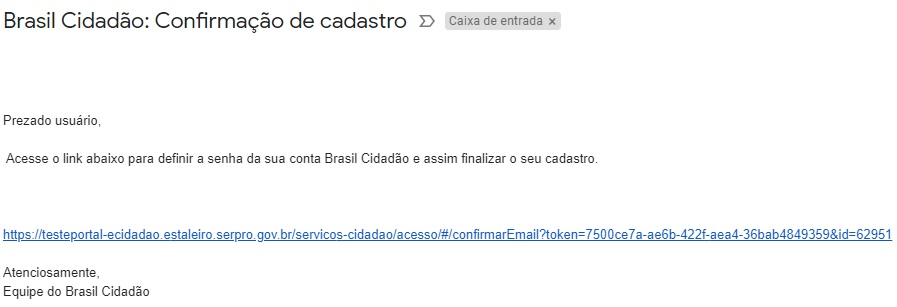
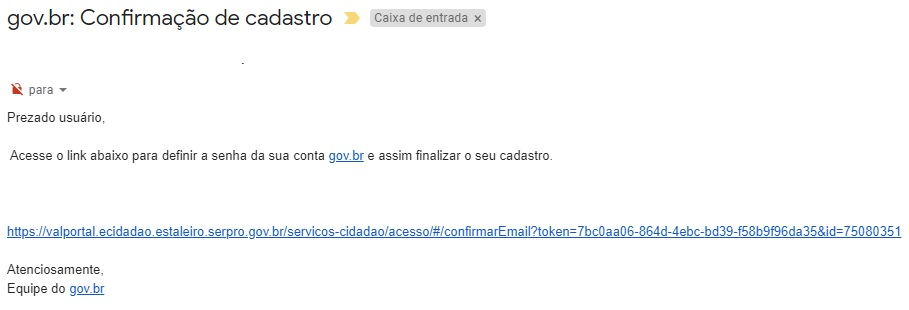
Atualizacao conteudo

diff --git a/_perguntasdafaq/contaacesso.rst b/_perguntasdafaq/contaacesso.rst
@@ -3,43 +3,37 @@
 
 Para criar uma conta de acesso, clique no botão `Fazer Cadastro`_ |site externo| e siga os passos:
 
-.. figure:: _images/telainicialcombotaofazercadastrogovbr.jpg
+.. figure:: _images/telainicialcombotaofazercadastro.jpg
    :align: center
    :alt: Tela de acesso inicial do Login Único com destaque do botão Fazer Cadastro em destaque
 
 1. Tenha em mãos um documento de identidade, número do CPF, nome completo, e-mail e número do celular e clique no botão continuar
 
-.. figure:: _images/telafazercadastrocombotaocontinuargovbr.jpg
+.. figure:: _images/telafazercadastrocombotaocontinuar.jpg
    :align: center
    :alt: Tela de inicio do cadastro com os campos CPF, nome, e-mail, CAPTCHA e botão CONTINUAR destacado. Na mesma tela possui referência para criação por meio do Certificado Digital e Certificado Digital NEOID
 
 2. Responda as perguntas relacionadas às suas informações pessoais.
 
-.. figure:: _images/perguntascadastroinicialgovbr.jpg
+.. figure:: _images/perguntascadastroinicial.jpg
    :align: center
    :alt: Tela com as perguntas serem respondidas pelo cidadão para confirmação do cadastro. As perguntas são Qual o Ano de Nascimento?, Qual o primeiro nome da Mãe?, Qual seu mês de nascimento?
 
-3. Após a verificação das respostas, a Plataforma enviará uma mensagem ou para email ou para número do celular. A opção SMS só estará ativa se o número de celular tiver sido informado, conforme passo 1.
+3. Após a verificação das respostas, a Plataforma enviará email para ativação da conta.
 
-.. figure:: _images/envioemailcadastrarsenhagovbr.jpg
+.. figure:: _images/envioemailcadastrarsenha.jpg
    :align: center
    :alt: Tela com confirmação do e-mail a ser encaminhada. Os elementos presentes são e-mail com partes misturadas (evitar identificação) e os botões CONFIRMAR e CANCELAR
 
-4. Caso tenha escolhido a opção do email, abra o seu e-mail e clique no link enviado (confira na caixa de spam caso não esteja na caixa de entrada)
+4. Abra o seu e-mail e clique no link enviado (confira na caixa de spam caso não esteja na caixa de entrada)
 
 .. figure:: _images/emailcomlinkparasenha.jpg
    :align: center
    :alt: Texto do email encaminhado ao cidadão para realizar o cadastramento da conta. O texto do email é "Assunto com Brasil Cidadão: confirmação do cadastro e texto para indicar a forma de cadastramento com link" 
 
-5. Caso tenha escolhido a opção do SMS, conferir a mensagem recebida no celular informado e digitar o código no campo **Informe o código de validação** e clique no botão **Validar Cadastro**
+5. Definir uma senha e finalizar o cadastro e ativar sua conta.
 
-.. figure:: _images/teladigitarsmsparaconfirmacao.jpg
-   :align: center
-   :alt: Tela de confirmação do código SMS com os botões Cancelar, Validar Cadastro e Não recebi o SMS 
-   
-6. Definir uma senha e finalizar o cadastro e ativar sua conta.
-
-.. figure:: _images/telacadastramentosenhagovbr.jpg
+.. figure:: _images/telacadastramentosenha.jpg
    :align: center
    :alt: Tela para ativação do cadastro, tendo um descritivo para orientar como cadastrar a senha e os campos CPF, SENHA, REPETIR SENHA e os botões CRIAR SENHA ou CANCELAR. 
 
@@ -57,7 +51,17 @@ Caso você tenha um certificado digital pessoa física compatível com a ICP-Bra
 - quero uma conta/login/cadastro
 - fazer cadastro
 - cadastro
+- Mais quando tento acessar aparece senha e usuario invalido
+- Não estou consguindo acessar com meu login e senha
+- não tenho  senha  brasil cidadao/Login Único/govbr
+- Cadrastar dados pessoais
+- Preciso de ajuda com o cadastro
+- CPF aparece invalido na plataforma
+- CPF está invalido segundo o site 
+- cpf esta dando invalido, mesmo após eu utiliza-lo no brasil cidadao/Login Único/govbr e estar correto
+- peço pra trocar a senha ai ele diz acrescentar cpf. Quando aperto em criar senha ai ele diz cpf invalido
+- 
 
-.. _`Fazer Cadastro`: https://acesso.gov.br/servicos-cidadao/acesso/#/primeiro-acesso
+.. _`Fazer Cadastro`: https://portal.brasilcidadao.gov.br/servicos-cidadao/acesso/#/primeiro-acesso
 .. |site externo| image:: _images/site-ext.gif
             

diff --git a/_perguntasdafaq/naotenhoacessoaoemailcadastradonologin.rst b/_perguntasdafaq/naotenhoacessoaoemailcadastradonologin.rst
@@ -1,0 +1,40 @@
+Não tenho mais acesso ao meu email pessoal
+==========================================
+
+As informações utilizadas para realizar o cadastro do Login Único pertencem ao cidadão. Ministério da Economia não tem autonomia para alteração sem o consentimento do cidadão, conforme `LEI Nº 13.709, DE 14 DE AGOSTO DE 2018 (Dispõe sobre a proteção de dados pessoais)`_ |site externo|
+
+Para realizar o procedimento de alteração, há necessidade da Administração Pública certificar a autenticidade do cidadão. Isso ocorrerá por meio do email a ser encaminhado para cidadaniadigital@planejamento.gov.br com as informações:
+
+1. Preeencher no campo assunto: **[Login Único] Alteração do e-mail por solicitação do cidadão**
+2. Preencher o conteúdo do e-mail com as informações:
+
+- **Nome do Cidadão**;
+- **CPF do Cidadão**;
+- **Data de Nascimento**;
+- **E-mail para alteração**;
+- **Anexar arquivo com o Documento de Identificação e autofotografia(selfie) para checar identificação**;
+- **Seguinte texto**: Eu, *nome do cidadao*, portador do CPF, *CPF do cidadão* , autorizo o Ministério da Economia a alterar meus dados cadastrais da plataforma de autenticação Login Único(govbr). *Cidade residência do cidadão* , *data do preenchimento da autorização*.
+ 
+Logo que o Ministério da Economia receber o e-mail, será realizado a análise de segurança e confirmação será encaminhada para email solicitado para alteração.
+
+**Possíveis Palavras/Termos (Utilizado para busca no chatbot)**
+
+- Não tenho acesso ao email
+- email invalido
+- não tem autonomia
+- Alteração do e-mail
+- solicitação do cidadão
+- Não consigo acessar conta
+- Este email que cadastrei não consigo acessar mais
+- Esqueci meu email da conta brasil cidadao/Login Único/govbr
+- Preciso trocar o email pois devo ter colocado errado
+- Recadastrar email no site
+- Senha do Brasil Cidadão/Login Único/govbr eu esqueci e nao tenho mais o email que eu cadrastrei
+- Esqueci a senha e não utilizo mais o email de cadastro
+- Meu cadastro esta errado
+
+.. |site externo| image:: _images/site-ext.gif
+.. _`LEI Nº 13.709, DE 14 DE AGOSTO DE 2018 (Dispõe sobre a proteção de dados pessoais)` : http://www.planalto.gov.br/ccivil_03/_Ato2015-2018/2018/Lei/L13709.htm
+
+
+            

diff --git a/_perguntasdafaq/naorecebioemaildeconfirmacao.rst b/_perguntasdafaq/naorecebioemaildeconfirmacao.rst
@@ -1,49 +1,35 @@
-Não recebi e-mail ou SMS de confirmação
+Não recebi e-mail de confirmação
 ================================
 
 Pode ter ocorrido:
 
-- SMS ou E-mail inválido (erro de digitação) ou; 
+- E-mail inválido (erro de digitação) ou; 
 - E-mail de confirmação está na sua caixa de spam (Lixo Eletrônico) ou;
 - E-mail de confirmação ainda não chegou na sua caixa de e-mail ou;
-- SMS de confirmação depende da funcionalidade de mensagem está disponível ao celular pela operadora ou;
-- SMS de confirnação depende de créditos disponíveis no plano de celular para recebimento de mensagens.   
 
 Dependendo do serviço de e-mail ,pode demorar até 24 horas para chegar na caixa de e-mail.
 
-Dependendo do serviço de SMS, pode não receber a mensagem de imediato. Aguardar alguns minutos para verificar novo envio.
-
-Caso não tenha recebido o e-mail ou SMS, encaminhar e-mail para cidadaniadigital@planejamento.gov.br e informe o problema com detalhes. 
+Caso não tenha recebido o e-mail, encaminhar e-mail para cidadaniadigital@planejamento.gov.br e informe o problema com detalhes. 
 
 **Possíveis Palavras/Termos (Utilizado para busca no chatbot)**
 
 - e-mail de confirmação
-- SMS de confirmação
 - erro de digitação
 - caixa de spam
 - e-mail errado
 - lixo eletrônico
 - não chegou confirmação
 - cadastrei-me e não recebi o e-mail de confirmação
-- cadastrei-me e não recebi o SMS de confirmação
 - não recebi o e-mail
-- não recebi o SMS
 - não recebi a confirmação
 - não veio e-mail de confirmação
-- não veio SMS de confirmação
 - para onde vai o e-mail de confirmação
 - para onde foi e-mail de confirmação
-- para onde vai o SMS de confirmação
-- para onde foi SMS de confirmação
 - onde está o e-mail de confirmação
 - cade e-mail de confirmação
-- onde está o SMS de confirmação
-- cade SMS de confirmação
 - cade a confirmação
 - Não chegou nenhum e-mail
 - Não recebo o e-mail
-- Não chegou nenhum SMS
-- Não recebo o SMS  
 
 .. |site externo| image:: _images/site-ext.gif
             

diff --git a/_perguntasdafaq/problemanacontadeacessocomertificadodogital.rst b/_perguntasdafaq/problemanacontadeacessocomertificadodogital.rst
@@ -1,0 +1,35 @@
+Problema conta de acesso com certificado digital?
+=================================================
+
+Favor realizar os procedimentos:
+
+1. Fechar o navegador
+2. Abrir o navegador
+3. Limpar os Dados de Navegação. (Verificar o procedimento para o navegador em uso)
+4. Instalar a cadeia de certificados válidos da ICP-Brasil:
+
+- `Certificado AC Brasil`_ |site externo|. **(Instalar desde versão 2 até última)**
+- `Certificado AC da Secretaria da Receita Federal do Brasil`_ |site externo|. **(Instalar desde versão 2 até última)**
+- `Certificado AC do SERPRO`_ |site externo|. **(Instalar desde versão 2 até última)**
+
+5. Realizar o login.
+
+Caso o problema continue, encaminhe o email para cidadaniadigital@planejamento.gov.br, e informe o problema com detalhes.
+
+**Possíveis Palavras/Termos (Utilizado para busca no chatbot)**
+
+- SAC
+- atendimento
+- cliente
+- problema com acesso
+- problema na minha conta
+- ajuda
+- cadastro com certificado digital não está entrando
+- Certificado nao está acessando o Brasil Cidadão/Login Único/govbr, o que faço?
+- Não consigo acessar o Brasil Cidadão/Login Único/govbr com certificado digital
+- Não encontra o certificado digital
+
+.. |site externo| image:: _images/site-ext.gif
+.. _`Certificado AC Brasil` : https://www.iti.gov.br/repositorio/repositorio-ac-raiz  
+.. _`Certificado AC da Secretaria da Receita Federal do Brasil` : https://www.iti.gov.br/repositorio/cadeias-da-icp-brasil/86-cadeias-da-icp-brasil/251-ac-receita-federal-do-brasil
+.. _`Certificado AC do SERPRO`: https://www.iti.gov.br/repositorio/86-cadeias-da-icp-brasil/401-ac-serpro

diff --git a/_perguntasdafaq/esqueciminhasenha.rst b/_perguntasdafaq/esqueciminhasenha.rst
@@ -3,7 +3,7 @@
 
 Você pode recuperar senha acessando `Esqueceu sua senha?`_ |site externo|:
 
-.. figure:: _images/telaincialcomesqueceusenhagovbr.jpg
+.. figure:: _images/telaincialcomesqueceusenha.jpg
    :align: center
    :alt: Tela inicial do Login Único com destaque no link Esqueceu sua senha?. O link está localizado abaixo do campo SENHA presente na tela.
 
@@ -12,8 +12,15 @@ Tenha em mãos o número do seu CPF.
 
 **Possíveis Palavras/Termos (Utilizado para busca no chatbot)**
 
-- recuperar minha senha, esqueci minha senha, senha, recuperação de senha, conseguir nova senha, nova senha
-- eu perdi minha senha, quero recuperar
+- recuperar minha senha
+- esqueci minha senha
+- recuperação de senha
+- conseguir nova senha
+- nova senha
+- eu perdi minha senha
+- quero recuperar minha senha
+- cadastrar nova senha
+- não lembro a senha atual por isso preciso fazer outra
 - perdi minha senha, como pego uma nova senha
 - quero uma senha nova
 - preciso de outra senha
@@ -23,8 +30,11 @@ Tenha em mãos o número do seu CPF.
 - refazer senha
 - visualizar minha senha
 - rever minha senha
-- Informa que o usuário já possui cadastro no sistema 
+- Informa que o usuário já possui cadastro no sistema
+- Onde devo digitar para redefinir a senha?
+- Recuperação login
+- Não consigo acessar meu cadastro  
 
-.. _`Esqueceu sua senha?` : https://acesso.gov.br/servicos-cidadao/acesso/#/recuperarSenha
+.. _`Esqueceu sua senha?` : https://portal.brasilcidadao.gov.br/servicos-cidadao/acesso/#/recuperarSenha
 .. |site externo| image:: _images/site-ext.gif
             

diff --git a/_perguntasdafaq/naoconsigocadastrarsenha.rst b/_perguntasdafaq/naoconsigocadastrarsenha.rst
@@ -15,10 +15,27 @@ Evite senhas comuns como:
 - 12345678
 - nomes
 
+Para o cadastramento da senha, o Login Único solicita o preenchimento da senha no campo **Nova Senha** e repeti-lá o campo **Repita a senha** e depois clicar no botão **CRIAR SENHA**.
+
+.. figure:: _images/telacadastramentosenha.jpg
+   :align: center
+   :alt: Tela com apresentação dos campos CPF, escolher senha, repetir senha escolhida para permitir o cadastramento da senha
+
+Verificar se a senha digitada está mesma em ambos os campos, porque o Login Único checa antes de realizar o cadastramento.
+
 Caso persista o problema, encaminhe e-mail para cidadaniadigital@planejamento.gov.br e detalhe o problema.
 
 **Possíveis Palavras/Termos (Utilizado para busca no chatbot)** 
 
+- Não consigo cadastrar senha
+- senha não está igual
+- Aparece que a senha não está igual
+- A senha não confirma mesmo estando igual
+- Não aceita a senha
+- Senha do Login Único/Brasil Cidadão/govbr não é aceita
+- Problema com senha para entrar na conta do Brasil Cidadao/Login Único/govbr
+- Não estou conseguindo fazer senha
+- repetir senha e não aceitou
 - Não consigo cadastrar senha
 
 .. |site externo| image:: _images/site-ext.gif

diff --git a/_perguntasdafaq/mensagemousuariojapossuicadastronosistema.rst b/_perguntasdafaq/mensagemousuariojapossuicadastronosistema.rst
@@ -7,14 +7,14 @@ Caso não lembre da senha, favor realizar os passos:
 
 - Recuperar senha acessando `Esqueceu sua senha?`_ |site externo|:
 
-.. figure:: _images/telaincialcomesqueceusenhagovbr.jpg
+.. figure:: _images/telaincialcomesqueceusenha.jpg
    :align: center
    :alt: Tela inicial do Login Único com destaque no link Esqueceu sua senha?. O link está localizado abaixo do campo SENHA presente na tela.
    
 - Informe seu CPF e clique em continuar.
 
 
-.. figure:: _images/telaesquecisenhacomcaptchagovbr.jpg
+.. figure:: _images/telaesquecisenhacomcaptcha.jpg
    :align: center
    :alt: Tela ativa para solicitar recuperação da senha com campo Informe o CPF, CAPTCHA e os botões CONTINUAR e CANCELAR 
 
@@ -24,6 +24,6 @@ Ao fazer isso, a senha do CPF irá para o e-mail cadastrado na conta do Login Ú
 
 - Mensagem: O usuário já possui cadastro no Sistema; 
  
-.. _`Esqueceu sua senha?`: https://acesso.gov.br/servicos-cidadao/acesso/#/recuperarSenha
+.. _`Esqueceu sua senha?`: https://portal.brasilcidadao.gov.br/servicos-cidadao/acesso/#/recuperarSenha
 .. |site externo| image:: _images/site-ext.gif
             

diff --git a/_perguntasdafaq/epossivelcriarcontadeacessocomcertificadodigital.rst b/_perguntasdafaq/epossivelcriarcontadeacessocomcertificadodigital.rst
@@ -3,7 +3,7 @@
 
 Sim. Acesse `Fazer Cadastro`_ |site externo| e clique nas opçoes “Cadastro com Certificado Digital” ou "Cadastro com Certificado Digital com NEOID". 
 
-.. figure:: _images/telacadastrocomcertificadodigitalgovbr.jpg
+.. figure:: _images/telacadastrocomcertificadodigital.jpg
    :align: center
    :alt: Tela de realizar cadastro com destaque para as funcionalidades Cadastro com Certificado Digital e Cadastro com Certificado Digital NEOID
 
@@ -25,7 +25,7 @@ O Certificado digital aceito pelo Brasil Cidadão é dos tipos A1 e A3.
 - não consigo entrar com o certificado digital
 - Estou tentando entrar com certificado digital, porém não tenho êxito  
 
-.. _`Fazer Cadastro` : https://acesso.gov.br/servicos-cidadao/acesso/#/primeiro-acesso
+.. _`Fazer Cadastro` : https://portal.brasilcidadao.gov.br/servicos-cidadao/acesso/#/primeiro-acesso
 .. _`drive do certificado digital` : https://certificados.serpro.gov.br/arserpro/pages/information/drivers_token_download.jsf?
 .. |site externo| image:: _images/site-ext.gif
             

diff --git a/index.rst b/index.rst
@@ -22,13 +22,17 @@ FAQ Login Único
    _perguntasdafaq/obtermaisconfiabilidadenacontadeacesso
    _perguntasdafaq/epossivelcriarcontadeacessocomcertificadodigital
    _perguntasdafaq/problemanacontadeacesso
+   _perguntasdafaq/problemanacontadeacessocomertificadodogital
    _perguntasdafaq/esqueciminhasenha
    _perguntasdafaq/erreiasenha3vezes
    _perguntasdafaq/naoconsigocadastrarsenha
+   _perguntasdafaq/solicitodesbloqueiosenha
    _perguntasdafaq/alterardadoscadastrais
    _perguntasdafaq/alterarsenha
    _perguntasdafaq/excluircadastro
+   _perguntasdafaq/recadastramentoconta
    _perguntasdafaq/naorecebioemaildeconfirmacao
+   _perguntasdafaq/cadastrosemcpf
    _perguntasdafaq/erronologinunico
    _perguntasdafaq/termodeusoeprivacidade
    _perguntasdafaq/duvidasemservicosespecificos
@@ -36,3 +40,4 @@ FAQ Login Único
    _perguntasdafaq/ondedizdigiteoseuCPFeparabotarnumeros
    _perguntasdafaq/navegador
    _perguntasdafaq/porquemfoicriado
+   _perguntasdafaq/naotenhoacessoaoemailcadastradonologin

diff --git a/_perguntasdafaq/cadastrosemcpf.rst b/_perguntasdafaq/cadastrosemcpf.rst
@@ -1,0 +1,22 @@
+Cadastro sem CPF
+================
+
+O Login Único é um meio de acesso digital do usuário aos serviços públicos digitais.
+
+Este Login garante a identificação de cada cidadão que acessa os serviços digitais do governo.
+
+Uma das formas de deixar o cadastro consistente é utilização obrigatória do CPF do cidadão. Não há possibilidade de cadastro sem CPF.
+
+Para realizar o cadastro, favor seguir os passos para `Fazer Cadastro`_.
+
+   
+**Possíveis Palavras/Termos (Utilizado para busca no chatbot)** 
+
+- Qual a finalidade do brasil cidadao/Login Único/govbr
+- gostaria de mais informações sobre o brasil cidadao/Login Único/govbr.
+- cadastro sem cpf
+- cpf obrigatório para Login Único/Brasil Cidadão/govbr
+ 
+.. |site externo| image:: _images/site-ext.gif
+.. _`Fazer Cadastro`: contaacesso.html
+            

diff --git a/_perguntasdafaq/termodeusoeprivacidade.rst b/_perguntasdafaq/termodeusoeprivacidade.rst
@@ -3,7 +3,7 @@
 
 Para acessar o termo de uso e privacidade do Login Único, acesse `Termos de Uso e Política de Privacidade`_ na area de Fazer Cadastro
 
-.. figure:: _images/usotermospoliticaeprivacidadegovbr.jpg
+.. figure:: _images/usotermospoliticaeprivacidade.jpg
    :align: center
    :alt:
 
@@ -17,5 +17,5 @@ Para acessar o termo de uso e privacidade do Login Único, acesse `Termos de Uso
 
 .. |site externo| image:: _images/site-ext.gif
 
-.. _`Termos de Uso e Política de Privacidade`: https://acesso.gov.br/servicos-cidadao/acesso/#/termo-uso-privacidade.pdf
+.. _`Termos de Uso e Política de Privacidade`: https://portal.brasilcidadao.gov.br/servicos-cidadao/acesso/#/termo-uso-privacidade.pdf
             

diff --git a/_perguntasdafaq/porquaismeiospossoacessar.rst b/_perguntasdafaq/porquaismeiospossoacessar.rst
@@ -9,7 +9,7 @@ O Login Único pode ser acessado por:
 
 Acesso ao `Login Unico`_ |site externo|   
 
-.. figure:: _images/telainicialgovbr.jpg
+.. figure:: _images/tela_inicial_brasil_cidadao.jpg
    :align: center
    :alt: Tela Inicial do Login Único
 
@@ -29,7 +29,7 @@ Acesso ao `Login Unico`_ |site externo|
 - quero usar o login único/Brasil Cidadão/govbr no celular/smartphone/mobile
 - não tenho computador e quero usar o celular/smartphone/mobile 
 
-.. _`Login Unico`: https://acesso.gov.br
+.. _`Login Unico`: https://scp.brasilcidadao.gov.br/scp/login
 
 .. |site externo| image:: _images/site-ext.gif
             
